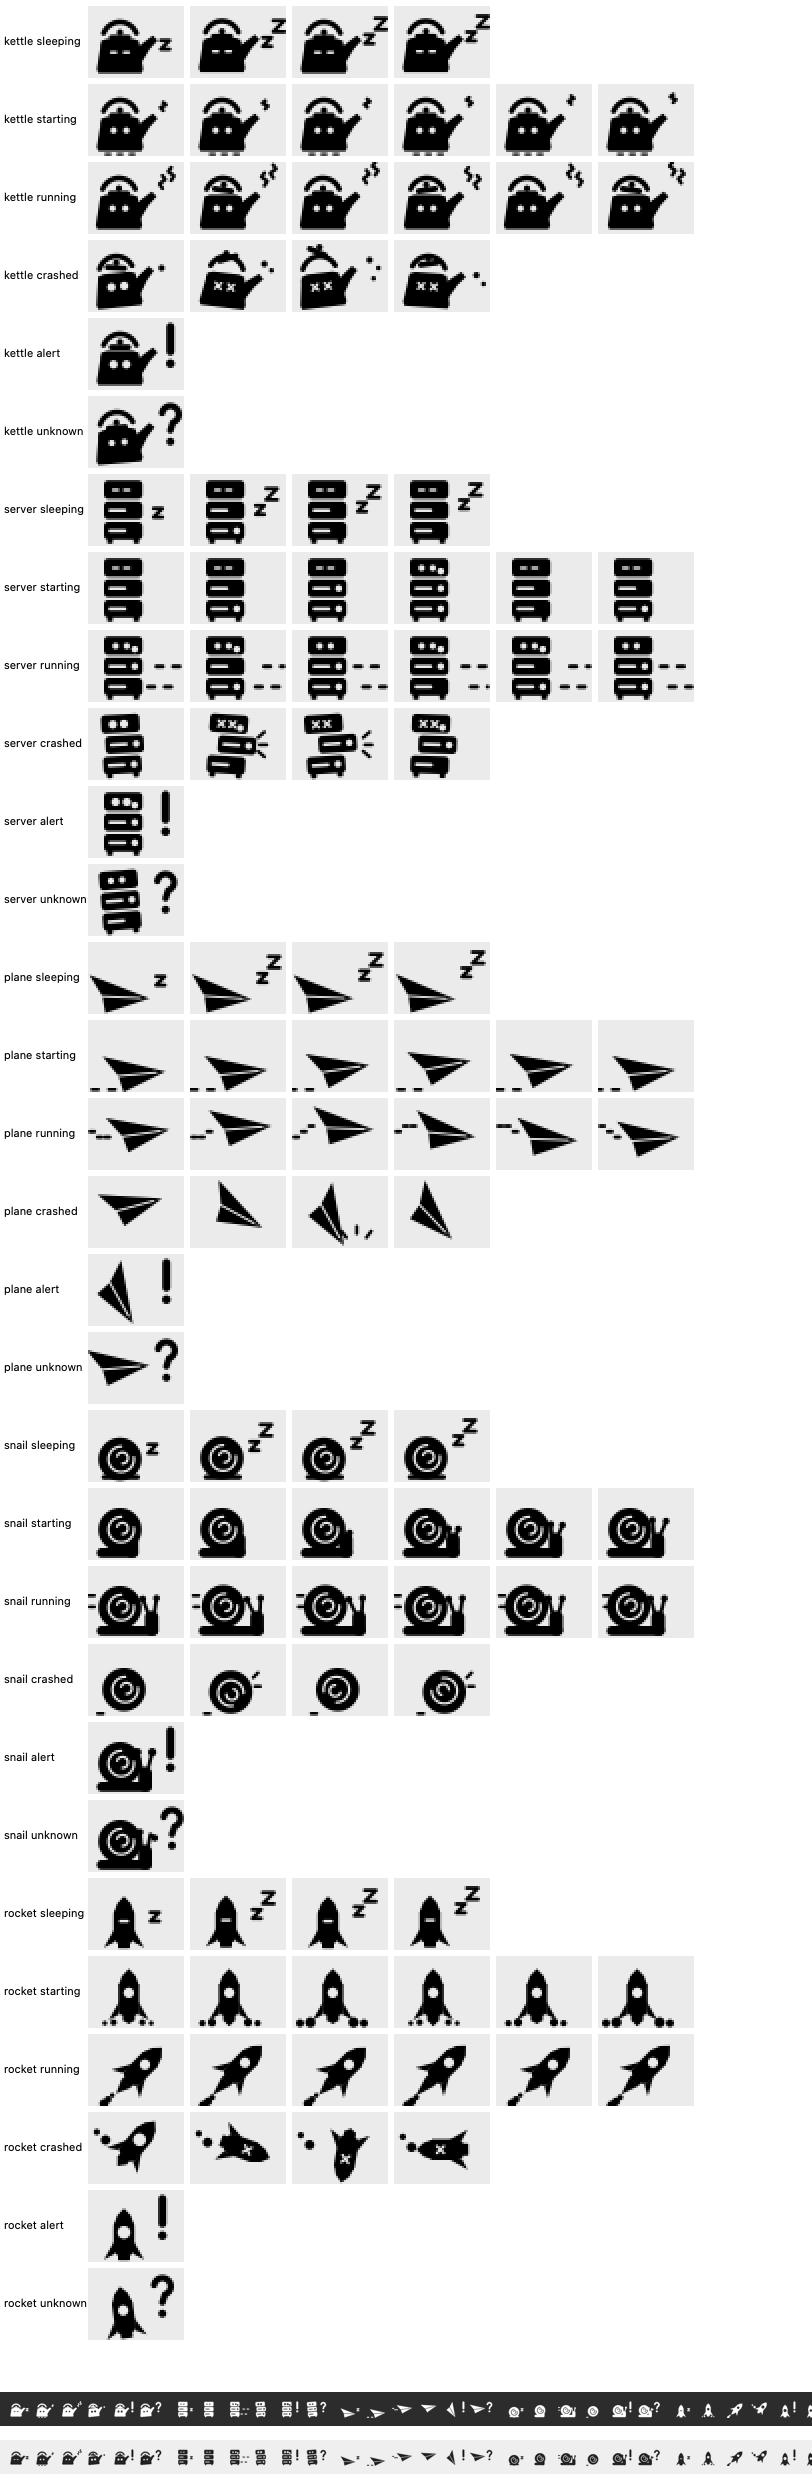
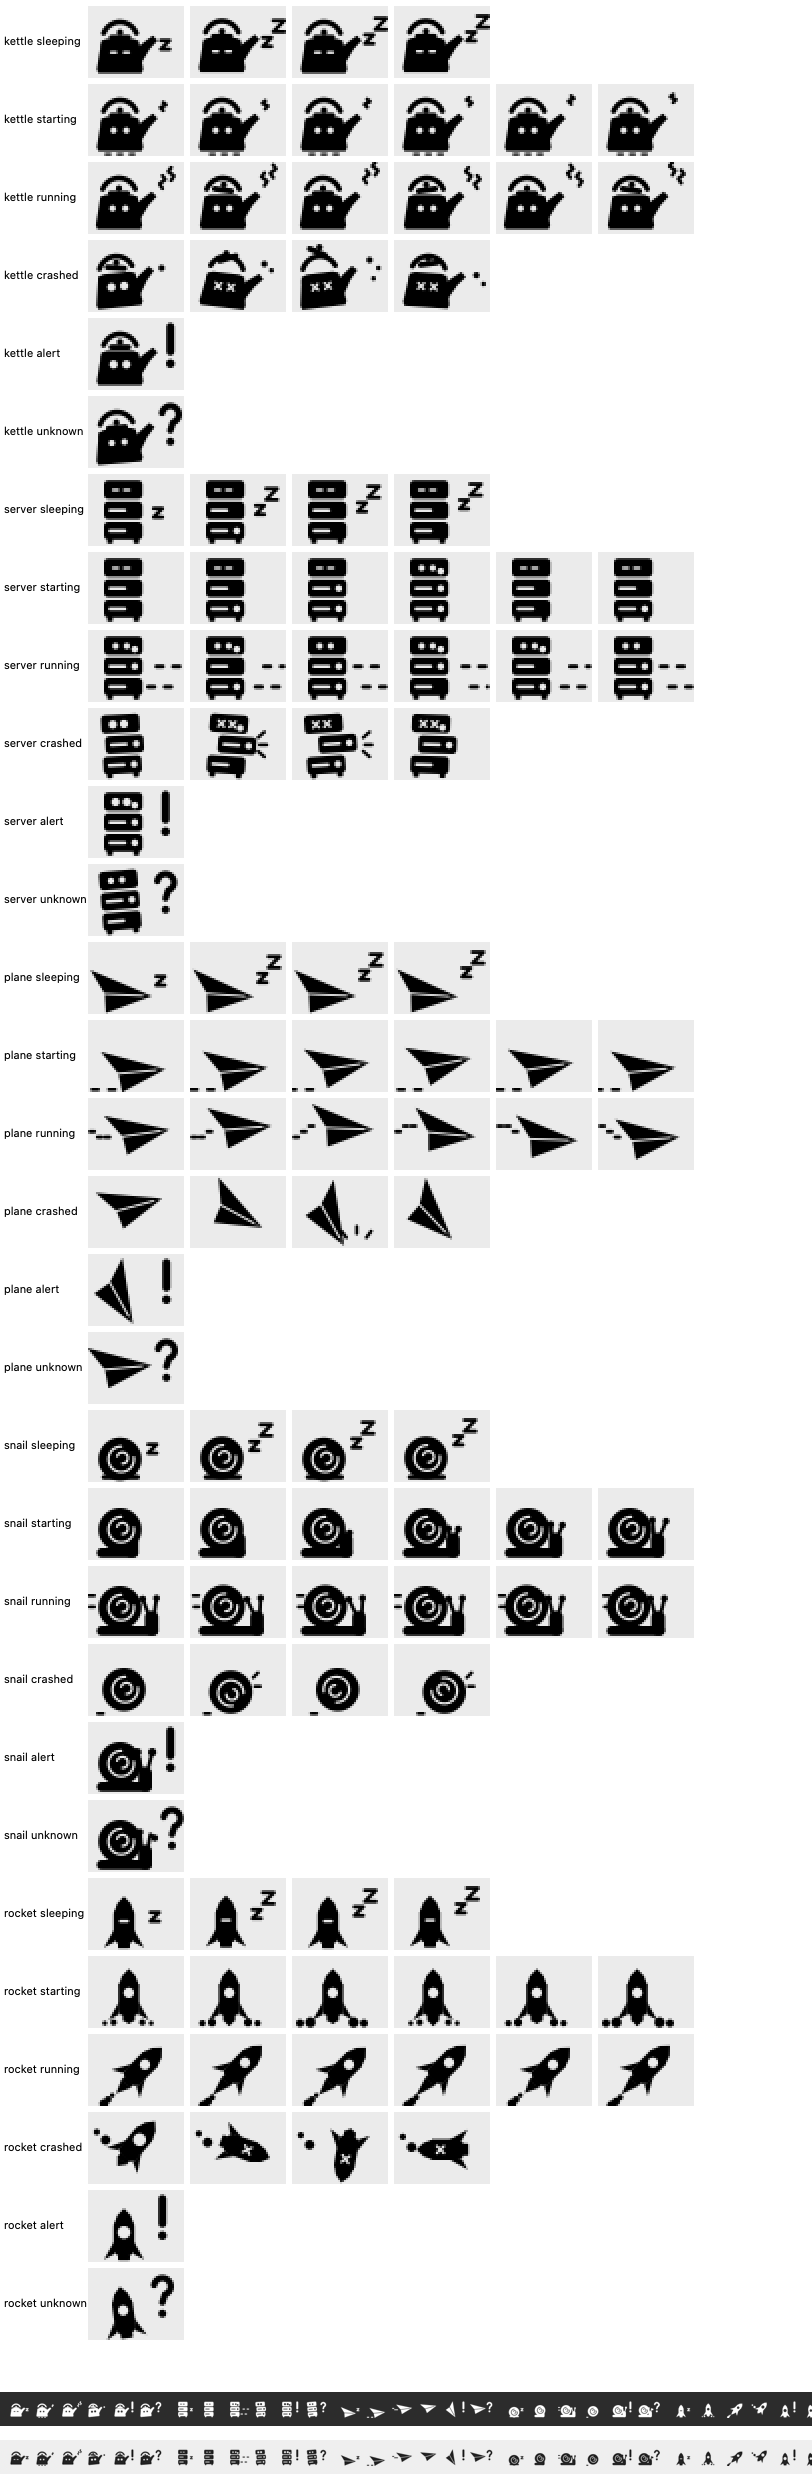
Paper plane: deeper wing and keel so it keeps its ink at 16 px

diff --git a/macos/BenchBar/Runners/PlaneRunnerArt.swift b/macos/BenchBar/Runners/PlaneRunnerArt.swift
@@ -29,8 +29,8 @@ nonisolated enum PlaneRunnerArt {
 
     /// The upper wing and the keel, with the fold between them cut out.
     static func body(_ c: RunnerCanvas) {
-        c.shape([CGPoint(x: 5.0, y: 14.0), CGPoint(x: 20.4, y: 9.2), CGPoint(x: 8.6, y: 8.9)])
-        c.shape([CGPoint(x: 8.6, y: 8.9), CGPoint(x: 20.4, y: 9.2), CGPoint(x: 9.6, y: 4.8)])
+        c.shape([CGPoint(x: 4.6, y: 14.6), CGPoint(x: 20.4, y: 9.2), CGPoint(x: 8.6, y: 8.9)])
+        c.shape([CGPoint(x: 8.6, y: 8.9), CGPoint(x: 20.4, y: 9.2), CGPoint(x: 9.2, y: 4.2)])
         c.cutLine([CGPoint(x: 8.2, y: 8.9), CGPoint(x: 18.2, y: 9.13)], width: 0.45)
     }
 
@@ -61,7 +61,7 @@ nonisolated enum PlaneRunnerArt {
         RunnerCanvas.render(width: width) { c in
             // a run along the ground with little hops, not quite airborne
             let hops: [CGFloat] = [0, 0.3, 1.2, 2.0, 1.2, 0.3]
-            plane(c, pitch: -4 - hops[i] * 3, offset: CGPoint(x: -1, y: -4.6 + hops[i]))
+            plane(c, pitch: -4 - hops[i] * 3, offset: CGPoint(x: -1, y: -4.0 + hops[i]))
             let drift = CGFloat(i % 3) * 0.8
             for x in [CGFloat(1.0), 5.2] {
                 c.line([CGPoint(x: x - drift, y: 0.6), CGPoint(x: x + 1.6 - drift, y: 0.6)], width: 0.8)
@@ -73,7 +73,7 @@ nonisolated enum PlaneRunnerArt {
         RunnerCanvas.render(width: width) { c in
             // grounded, nose down a little, rocking now and then
             let rock: CGFloat = i % 2 == 0 ? 0 : 1.5
-            plane(c, pitch: 4 + rock, offset: CGPoint(x: -5, y: -4.8))
+            plane(c, pitch: 4 + rock, offset: CGPoint(x: -4.4, y: -4.2))
             sleepMarks(c, i, x: 17)
         }
     }
@@ -108,7 +108,7 @@ nonisolated enum PlaneRunnerArt {
 
     static func question() -> CGImage {
         RunnerCanvas.render(width: width) { c in
-            plane(c, pitch: -4, offset: CGPoint(x: -5, y: 0))
+            plane(c, pitch: -4, offset: CGPoint(x: -4.4, y: 0))
             c.question(x: 19.6)
         }
     }

diff --git a/windows/tray/Tray.Core/PlaneRunnerArt.cs b/windows/tray/Tray.Core/PlaneRunnerArt.cs
@@ -36,8 +36,8 @@ public static class PlaneRunnerArt
     /// <summary>The upper wing and the keel, with the fold between them cut out.</summary>
     private static void Body(RunnerCanvas c)
     {
-        c.Shape([new PointF(5.0f, 14.0f), new PointF(20.4f, 9.2f), new PointF(8.6f, 8.9f)]);
-        c.Shape([new PointF(8.6f, 8.9f), new PointF(20.4f, 9.2f), new PointF(9.6f, 4.8f)]);
+        c.Shape([new PointF(4.6f, 14.6f), new PointF(20.4f, 9.2f), new PointF(8.6f, 8.9f)]);
+        c.Shape([new PointF(8.6f, 8.9f), new PointF(20.4f, 9.2f), new PointF(9.2f, 4.2f)]);
         c.CutLine([new PointF(8.2f, 8.9f), new PointF(18.2f, 9.13f)], 0.45f);
     }
 
@@ -66,7 +66,7 @@ public static class PlaneRunnerArt
     private static void TakingOff(RunnerCanvas c, int i)
     {
         // a run along the ground with little hops, not quite airborne
-        Plane(c, -4 - Hops[i] * 3, new PointF(-1, -4.6f + Hops[i]));
+        Plane(c, -4 - Hops[i] * 3, new PointF(-1, -4.0f + Hops[i]));
         var drift = (i % 3) * 0.8f;
         foreach (var x in new[] { 1.0f, 5.2f })
             c.Line([new PointF(x - drift, 0.6f), new PointF(x + 1.6f - drift, 0.6f)], 0.8f);
@@ -76,7 +76,7 @@ public static class PlaneRunnerArt
     {
         // grounded, nose down a little, rocking now and then
         var rock = i % 2 == 0 ? 0f : 1.5f;
-        Plane(c, 4 + rock, new PointF(-5, -4.8f));
+        Plane(c, 4 + rock, new PointF(-4.4f, -4.2f));
         BenchRunnerArt.SleepMarks(c, i, 17);
     }
 
@@ -111,7 +111,7 @@ public static class PlaneRunnerArt
 
     private static void Question(RunnerCanvas c)
     {
-        Plane(c, -4, new PointF(-5, 0));
+        Plane(c, -4, new PointF(-4.4f, 0));
         c.Question(19.6f);
     }
 }

diff --git a/macos/DECISIONS.md b/macos/DECISIONS.md
@@ -527,5 +527,5 @@ Asked for after the phases, to stop naming drift before the first release.
 - The tray gets the same five as C# ports, like the Bench and the Cup, not PNGs exported from the Mac: windows/tray/DECISIONS.md keeps Swift out of the Windows build.
 - Every runner was checked at 36 px (the menu bar), at 4x and at 10 px per point (the Menu Bar preview at 5x on a 2x screen), light and dark. The large size showed overlaps the small one hides (the kettle's lower fill poking out of the pot, the snail's stalk touching the `?`).
 - `docs/images/runners.png` keeps only the Bench and the Cup, since `scripts/social-preview.swift` cuts the bench's running row out of it by pixel position. The new five have their own sheet, `docs/images/runners-more.png`.
-- The Plane, the Snail and the Rocket were drawn bolder after the tray's 16 px test: at that size (0.67 px a point) they had 16 to 25 solid pixels against the Bench's 50. The rocket is a fifth larger, the plane taller, the shell larger with thinner spiral cuts.
+- The Plane, the Snail and the Rocket were drawn bolder after the tray's 16 px test: at that size (0.67 px a point) they had 16 to 25 solid pixels against the Bench's 50. The rocket is a fifth larger, the plane deeper in the wing and the keel, the shell larger with thinner spiral cuts.
 - The five new ids are reserved like `bench` and `cup`. A custom runner folder with one of those names now shows an error instead of loading; the changelog says so.
